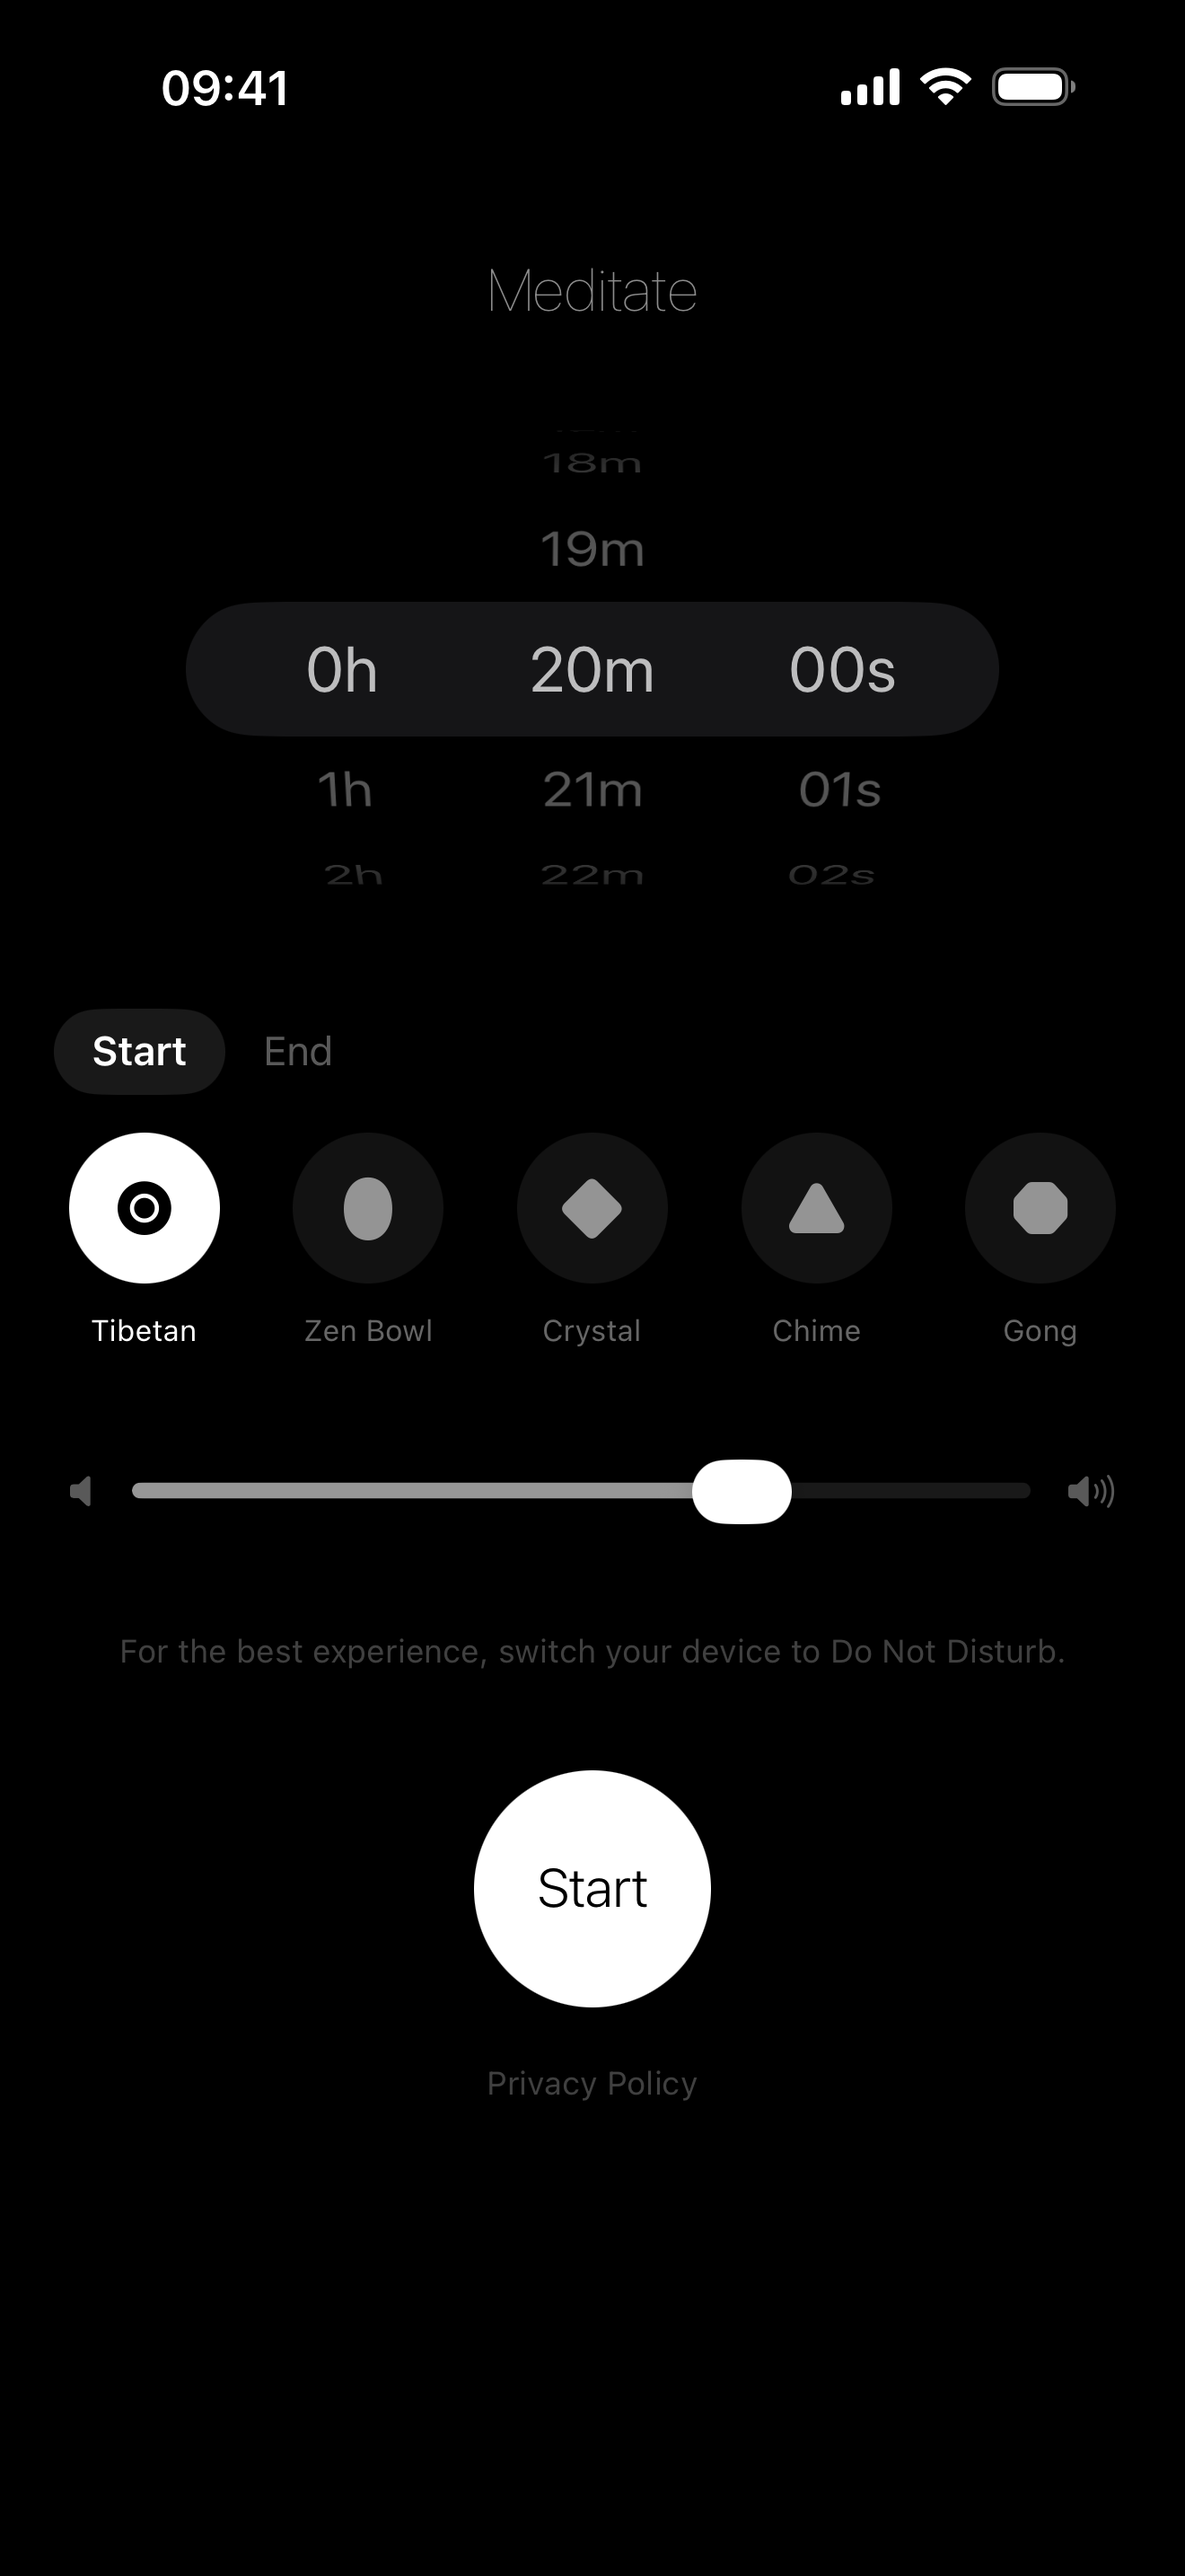
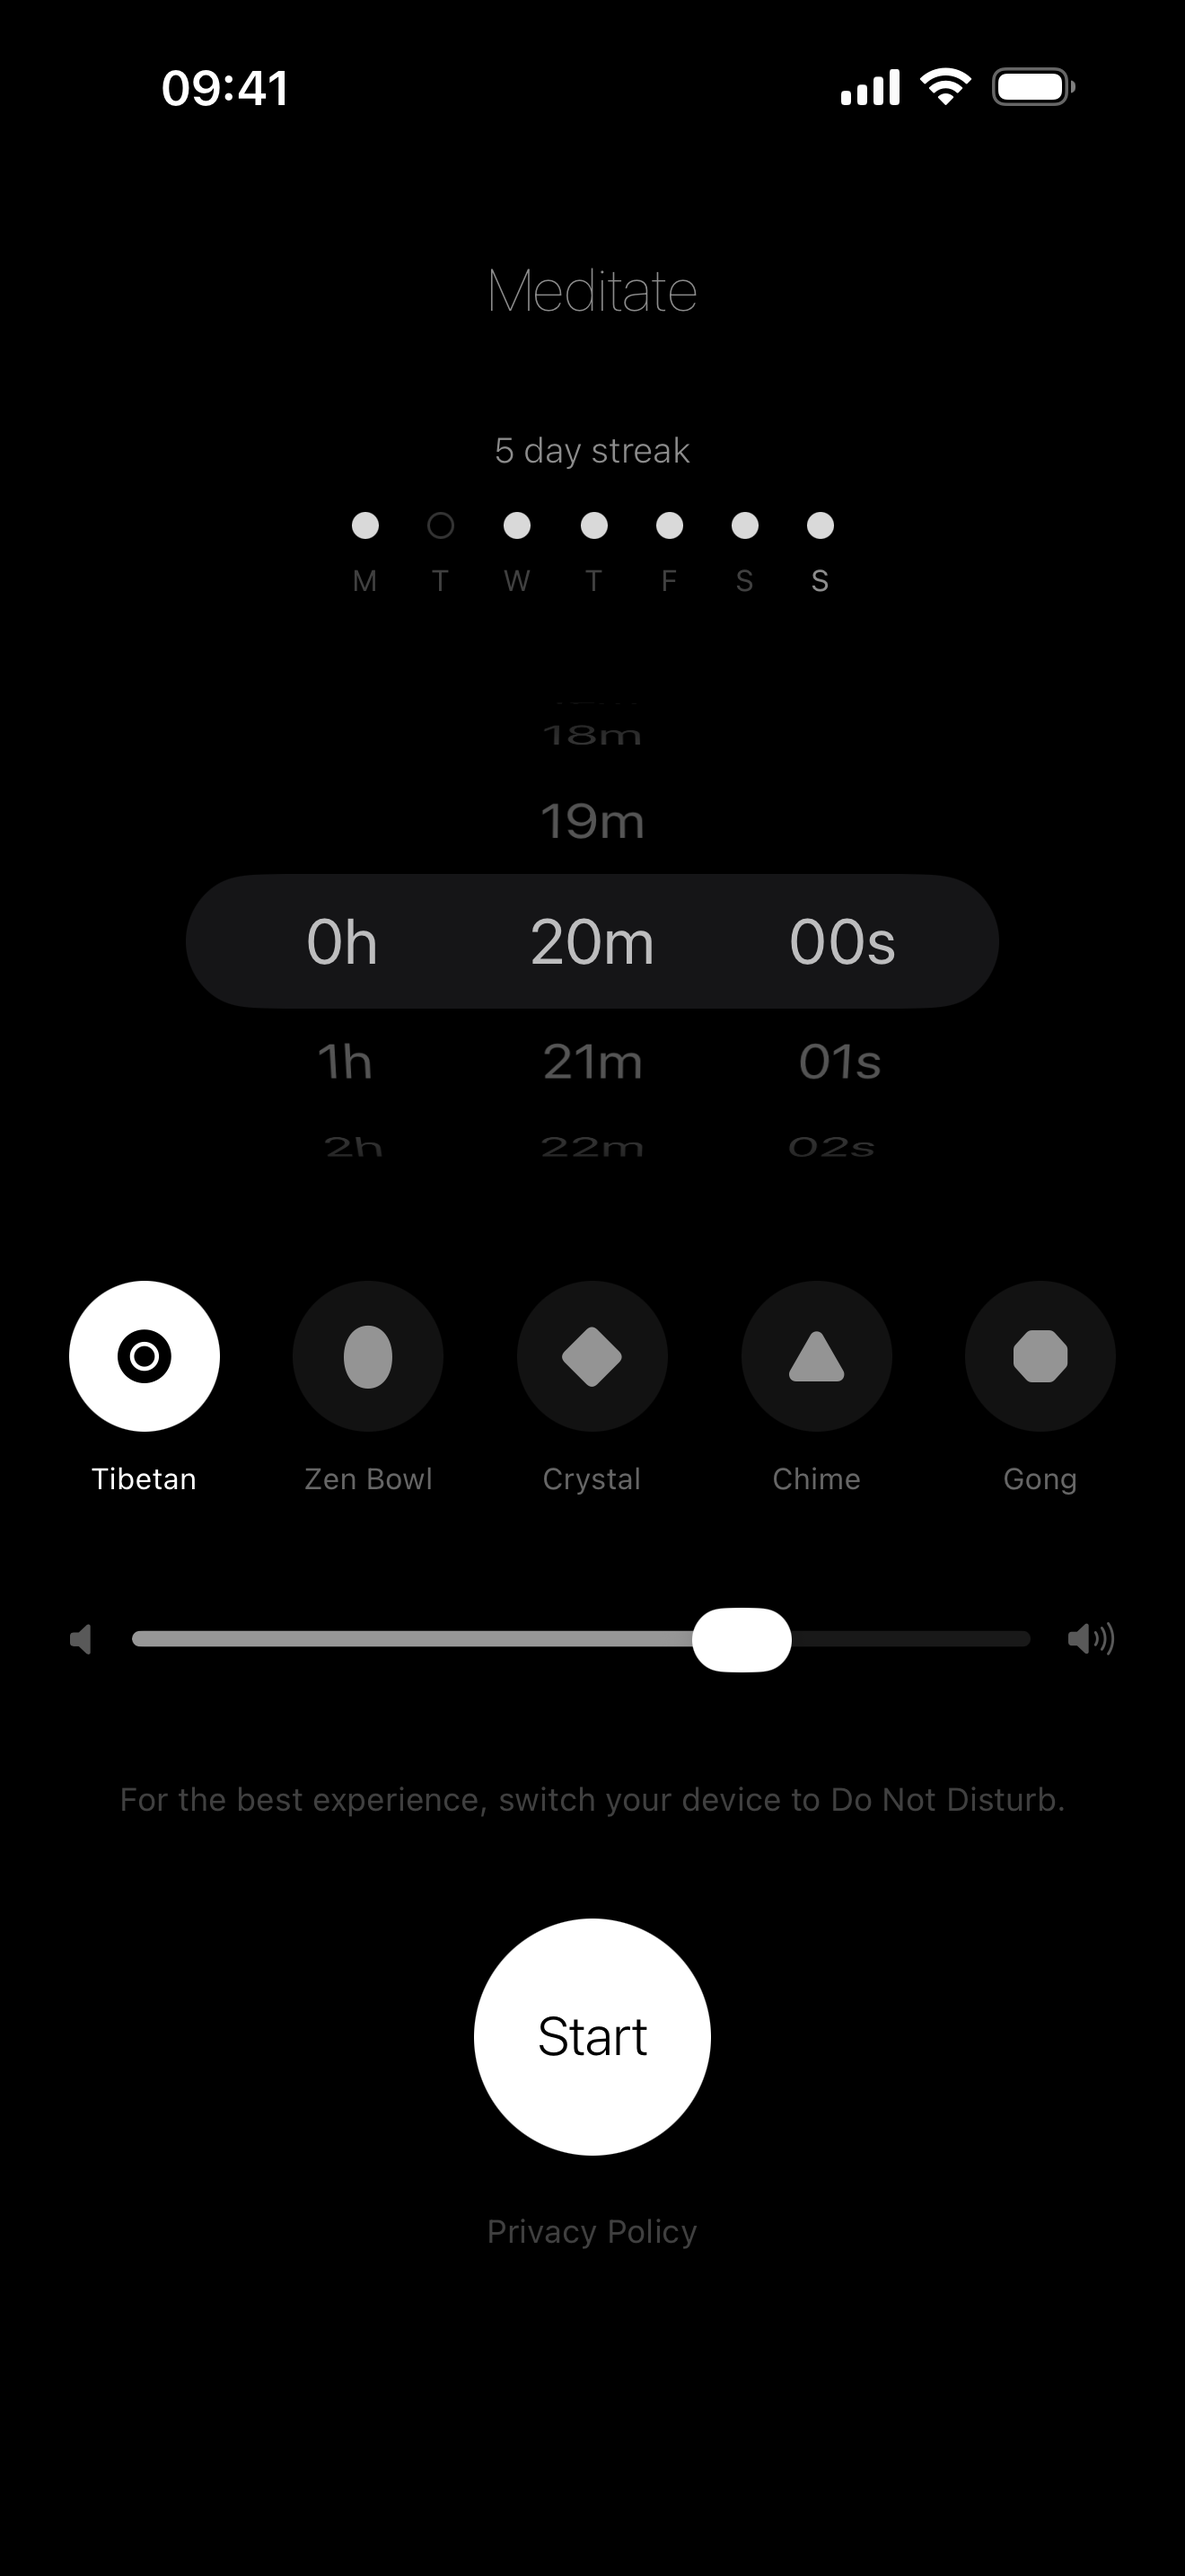
docs: refresh setup and complete screenshots, fix single-bell wording
The setup screenshots still showed the old Start/End bell toggle, and
both setup and complete screens now show the streak. Retake them on
iPhone 17 Pro Max and rebuild the captioned 6.9" and 6.5" versions in
the same style. The listing, privacy policy and support page still
described separate start and end bells; they now describe one bell,
and the support page mentions streak data and how days count.

diff --git a/AppStore/listing.md b/AppStore/listing.md
@@ -29,14 +29,14 @@ A quiet timer for sitting practice. Choose how long, pick a bell, and press Star
 Meditate is a timer for sitting practice, and nothing more. Set how long you want to sit, choose a bell, and press Start. The screen goes dark, the countdown begins, and a bell tells you when you're done.
 
 FIVE BELLS
-Tibetan singing bowl, Zen temple bowl, crystal bowl, wind chime, and gong. Choose one bell to open your session and another to close it, and tap any bell to hear it first.
+Tibetan singing bowl, Zen temple bowl, crystal bowl, wind chime, and gong. Your bell rings once to open your session and again to close it. Tap any bell to hear it first.
 
 MADE FOR SITTING
 • Distraction-free countdown on a black screen that stays awake
 • The ending bell still rings when your phone is locked
 • Keeps accurate time through calls and interruptions
 • A quiet streak: seven dots show the days you sat this past week
-• Remembers your last duration, bells, and volume
+• Remembers your last duration, bell, and volume
 
 PRIVATE BY DESIGN
 No account. No ads. No analytics. No internet connection needed. Your settings and streak never leave your device.
@@ -54,10 +54,10 @@ Words already in the name and subtitle (meditate, minimal, timer, quiet, bells, 
 
 Two sets, same order: plain app screens in `AppStore/screenshots/`, or versions with a short caption above each screen in `AppStore/screenshots/captioned/` (recommended — the mostly black screens read better with a line of context). Upload one set:
 
-1. `01-setup.png` — duration picker, bells, volume
+1. `01-setup.png` — streak, duration picker, bells, volume
 2. `02-timer.png` — countdown in progress
 3. `03-paused.png` — paused, with Finish and Resume
-4. `04-complete.png` — session complete
+4. `04-complete.png` — session complete, with streak
 
 If App Store Connect only shows the **6.5" Display** slot, it rejects 1320 × 2868. Use `AppStore/screenshots/captioned-6.5/` instead (1284 × 2778: scaled to width 1284, then about 6px of empty background trimmed from the top and bottom).
 

diff --git a/PRIVACY.md b/PRIVACY.md
@@ -10,7 +10,7 @@ Meditate does not collect, transmit, or share any personal data. Ever.
 
 **Data collection:** None. The app makes no network requests and has no analytics, crash reporting, advertising, or third-party SDKs. Because no data is collected, none is shared with third parties.
 
-**Data stored on your device:** Your timer preferences (duration, selected bells, volume) and the dates you meditated (used to show your streak) are saved locally using iOS system storage (`UserDefaults`). Only the date is kept, not the time or length of a session. This data never leaves your device.
+**Data stored on your device:** Your timer preferences (duration, selected bell, volume) and the dates you meditated (used to show your streak) are saved locally using iOS system storage (`UserDefaults`). Only the date is kept, not the time or length of a session. This data never leaves your device.
 
 **Notifications:** The app requests permission to send local notifications solely to ring the ending bell when your session completes while the screen is locked. These notifications are generated and delivered entirely on-device — no data is sent to any server.
 

diff --git a/SUPPORT.md b/SUPPORT.md
@@ -13,8 +13,11 @@ No. The timer keeps running through calls and other interruptions, and the endin
 **Why does my screen stay on during a session?**
 So you can glance at the remaining time without unlocking. The screen goes back to normal auto-lock once the session ends. You can also lock the phone manually — the ending bell will still ring (see above).
 
+**What counts toward my streak?**
+A day counts once a session runs to the end, or once you finish early after sitting for at least a minute. Your streak lasts as long as you don't miss a whole day, so it isn't lost in the morning before you've sat.
+
 **Does the app need an internet connection?**
 No. Everything works offline, and the app never sends any data anywhere.
 
 **How do I delete my data?**
-The only data is your timer preferences (duration, bells, volume), stored on your device. Deleting the app removes them. See the [privacy policy](PRIVACY.md) for details.
+The only data is your timer preferences (duration, bell, volume) and the dates you meditated, stored on your device. Deleting the app removes them. See the [privacy policy](PRIVACY.md) for details.
